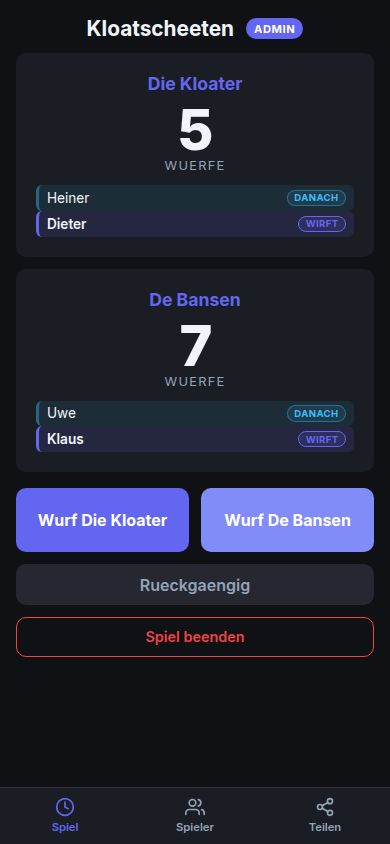
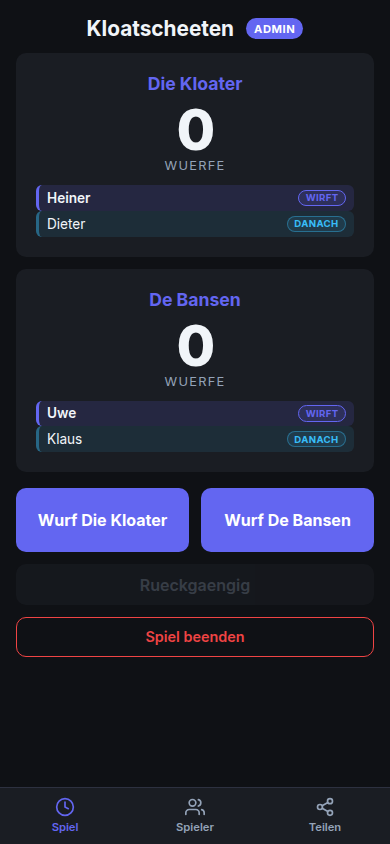
feat: Viewport-Hoehe anpassen - kein Scrollen im Spiel-Tab
- Spiel-Tab fuellt exakt die Bildschirmhoehe aus
- Scoreboards scrollen bei Bedarf, Controls bleiben immer sichtbar
- ScoreBoard und AdminControls kompakter fuer bessere Platznutzung
- Funktioniert fuer Admin und Zuschauer

diff --git a/frontend/src/views/GameView.vue b/frontend/src/views/GameView.vue
@@ -98,7 +98,7 @@ function copyAdminLink() {
         <div v-if="lastError" class="error-toast">{{ lastError.message }}</div>
 
         <!-- Tab: Spiel -->
-        <template v-if="!isAdmin || activeTab === 'spiel'">
+        <div v-if="!isAdmin || activeTab === 'spiel'" class="spiel-tab">
           <div class="scoreboards">
             <ScoreBoard
               :team="gameState.teamA"
@@ -124,7 +124,7 @@ function copyAdminLink() {
           />
 
           <p v-if="!isAdmin" class="viewer-hint">Du schaust zu - nur der Admin kann Wuerfe zaehlen</p>
-        </template>
+        </div>
 
         <!-- Tab: Spieler -->
         <template v-if="isAdmin && activeTab === 'spieler'">
@@ -182,22 +182,26 @@ function copyAdminLink() {
 
 <style scoped>
 .game {
-  min-height: 100dvh;
+  height: 100dvh;
   display: flex;
   flex-direction: column;
+  overflow: hidden;
 }
 
 .game-content {
   max-width: 480px;
   margin: 0 auto;
-  padding: 1rem;
-  padding-bottom: env(safe-area-inset-bottom, 1rem);
+  padding: 0.75rem 1rem 0;
   width: 100%;
   flex: 1;
+  display: flex;
+  flex-direction: column;
+  min-height: 0;
 }
 
 .game-content.has-bottom-nav {
-  padding-bottom: calc(4.5rem + env(safe-area-inset-bottom, 0px));
+  padding-bottom: 0;
+  margin-bottom: calc(3.5rem + env(safe-area-inset-bottom, 0px));
 }
 
 .game-header {
@@ -205,7 +209,8 @@ function copyAdminLink() {
   align-items: center;
   justify-content: center;
   gap: 0.75rem;
-  margin-bottom: 0.75rem;
+  margin-bottom: 0.5rem;
+  flex-shrink: 0;
 }
 
 .game-header h1 {
@@ -223,10 +228,20 @@ function copyAdminLink() {
   letter-spacing: 0.05em;
 }
 
+.spiel-tab {
+  flex: 1;
+  display: flex;
+  flex-direction: column;
+  min-height: 0;
+}
+
 .scoreboards {
   display: flex;
   flex-direction: column;
-  gap: 0.75rem;
+  gap: 0.5rem;
+  flex: 1;
+  min-height: 0;
+  overflow-y: auto;
 }
 
 .error-toast {
@@ -244,7 +259,8 @@ function copyAdminLink() {
   text-align: center;
   color: var(--color-text-muted);
   font-size: 0.85rem;
-  margin-top: 1.5rem;
+  padding: 1rem 0;
+  flex-shrink: 0;
 }
 
 .center-message {
@@ -331,11 +347,11 @@ function copyAdminLink() {
   display: flex;
   flex-direction: column;
   align-items: center;
-  gap: 0.2rem;
-  padding: 0.6rem 0;
+  gap: 0.15rem;
+  padding: 0.5rem 0;
   background: transparent;
   color: var(--color-text-muted);
-  font-size: 0.7rem;
+  font-size: 0.65rem;
   font-weight: 600;
   border-radius: 0;
   transition: color 0.15s;

diff --git a/frontend/src/components/ScoreBoard.vue b/frontend/src/components/ScoreBoard.vue
@@ -52,30 +52,30 @@ function badgeFor(i: number): 'wirft' | 'danach' | 'zuletzt' | null {
 .score-card {
   background: var(--color-surface);
   border-radius: var(--radius);
-  padding: 1.25rem;
+  padding: 0.75rem 1rem;
   text-align: center;
 }
 
 .team-name {
-  font-size: 1.1rem;
+  font-size: 1rem;
   font-weight: 700;
   color: var(--color-primary);
-  margin-bottom: 0.5rem;
+  margin-bottom: 0.25rem;
 }
 
 .throws {
-  font-size: 3.5rem;
+  font-size: 2.5rem;
   font-weight: 800;
   line-height: 1;
   letter-spacing: -0.03em;
 }
 
 .throws-label {
-  font-size: 0.8rem;
+  font-size: 0.7rem;
   color: var(--color-text-muted);
   text-transform: uppercase;
   letter-spacing: 0.1em;
-  margin-bottom: 0.75rem;
+  margin-bottom: 0.4rem;
 }
 
 .player-list {

diff --git a/frontend/src/components/AdminControls.vue b/frontend/src/components/AdminControls.vue
@@ -71,23 +71,23 @@ function doEnd() {
 .controls {
   display: flex;
   flex-direction: column;
-  gap: 0.75rem;
-  padding: 1rem 0;
+  gap: 0.5rem;
+  padding: 0.5rem 0;
+  flex-shrink: 0;
 }
 
 .throw-buttons {
   display: grid;
   grid-template-columns: 1fr 1fr;
-  gap: 0.75rem;
+  gap: 0.5rem;
 }
 
 .btn-throw {
   background: var(--color-primary);
   color: white;
-  padding: 1.25rem 0.5rem;
+  padding: 0.9rem 0.5rem;
   font-size: 1rem;
   font-weight: 700;
-  min-height: 64px;
 }
 
 .btn-throw:hover:not(:disabled) {
